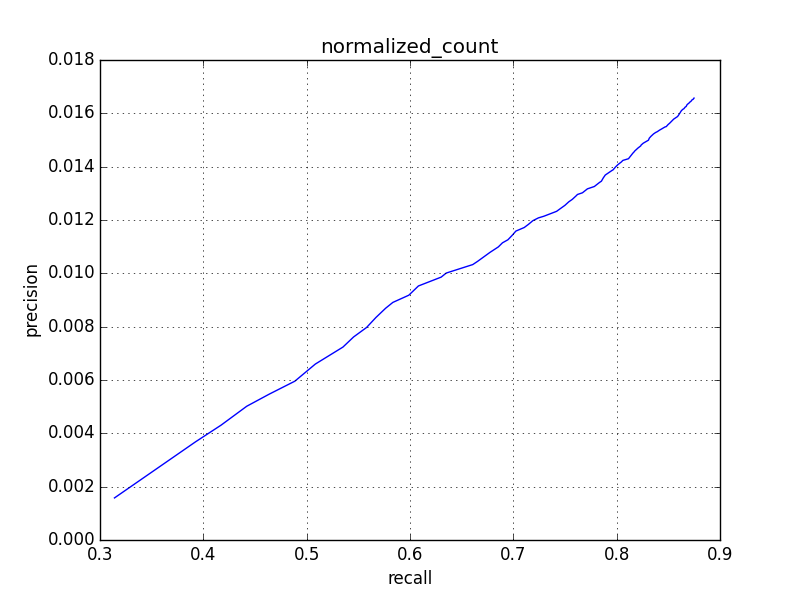
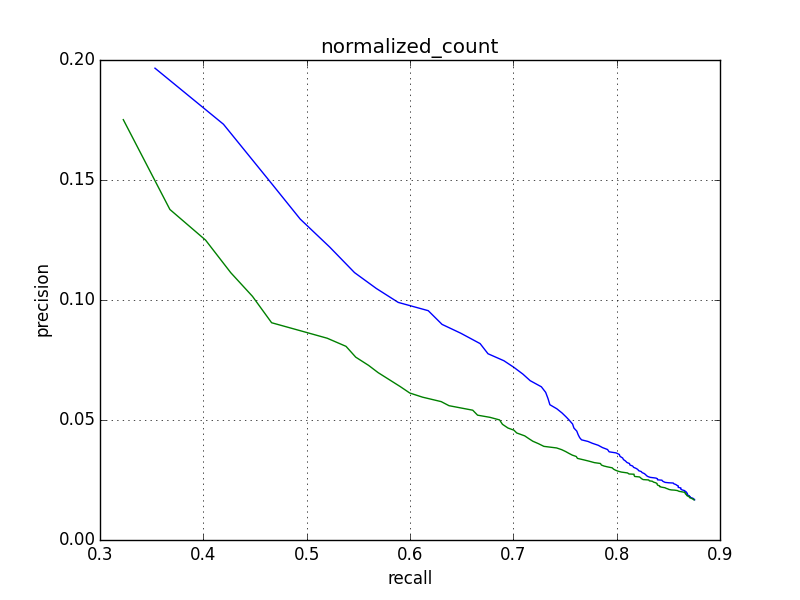
Putting stuff into a function. OMG.

diff --git a/stats.py b/stats.py
@@ -1,7 +1,7 @@
 from index.index import Index
 from index.index_config import IndexConfig
 from index.vectorial_query import VectorialQueryTfIdf, VectorialQueryNormCount
-from math import floor
+from math import ceil
 from pylab import *
 
 def read_queries(file_path):
@@ -33,6 +33,48 @@ def read_expected_results(file_path):
                 expected[query_id] = [expected_doc]
     return expected
 
+def compute_recall_and_precision(queries, expected, index, query_type, chart_title, output_path, step=1):
+    average_prec_list = []
+    average_recall_list = []
+
+    for percentage in range(1, 100, 1):
+        average_prec = 0
+        average_recall = 0
+        for (query_id, query_text) in queries.items():
+            pertinent = expected[query_id] if query_id in expected else []
+            pertinent_len = len(pertinent)
+
+            query_tfidf = query_type(query_text)
+            query_results = query_tfidf.execute(index)
+            tfidf_len = len(query_results)
+
+            top = math.ceil(tfidf_len*percentage/100)
+            query_results = query_results[0:top]
+            tfidf_len = top
+            
+            tfidf_found = len([k for k in pertinent if k in [x for (x, y) in query_results]])
+            tfidf_recall = tfidf_found / pertinent_len if pertinent_len > 0 else 1.0
+            tfidf_prec = tfidf_found / tfidf_len
+            
+            average_prec = average_prec + tfidf_prec
+            average_recall = average_recall + tfidf_recall
+        average_prec = average_prec / len(queries)
+        average_recall = average_recall / len(queries)
+        average_prec_list.append(average_prec)
+        average_recall_list.append(average_recall)
+
+    print(average_prec_list)
+    print(average_recall_list)
+
+    plot(average_recall_list, average_prec_list)
+
+    xlabel('recall')
+    ylabel('precision')
+    title(chart_title)
+    grid(True)
+    savefig("images/" + output_path)
+    #show()
+
 
 print('Indexing...')
 config = IndexConfig('data/common_words')
@@ -40,50 +82,12 @@ index = Index('data/cacm.all', config)
 
 queries = read_queries('data/query.text')
 expected = read_expected_results('data/qrels.text')
-results_tfidf = {}
-results_norm_count = {}
 
 print('Running queries...')
+compute_recall_and_precision(queries, expected, index, VectorialQueryTfIdf, 'tfidf', 'tfidf.png')
+compute_recall_and_precision(queries, expected, index, VectorialQueryNormCount, 'normalized_count', 'normalized_count.png')
 
-average_prec_list = []
-average_recall_list = []
 
-for percentage in range(1, 100, 1):
-    average_prec = 0
-    average_recall = 0
-    for (query_id, query_text) in queries.items():
-        pertinent = expected[query_id] if query_id in expected else []
-        pertinent_len = len(pertinent)
-
-        query_tfidf = VectorialQueryNormCount(query_text)
-        results_tfidf[query_id] = query_tfidf.execute(index)
-        tfidf_len = len(results_tfidf[query_id])
-
-        top = math.floor(tfidf_len*percentage/100)
-        results_tfidf[query_id] = results_tfidf[query_id][0:top]
-        
-        tfidf_found = len([k for k in pertinent if k in [x for (x, y) in results_tfidf[query_id]]])
-        tfidf_recall = tfidf_found / pertinent_len if pertinent_len > 0 else 1.0
-        tfidf_prec = tfidf_found / tfidf_len
-        
-        average_prec = average_prec + tfidf_prec
-        average_recall = average_recall + tfidf_recall
-    average_prec = average_prec / len(queries)
-    average_recall = average_recall / len(queries)
-    average_prec_list.append(average_prec)
-    average_recall_list.append(average_recall)
-
-print(average_prec_list)
-print(average_recall_list)
-
-plot(average_recall_list, average_prec_list)
-
-xlabel('recall')
-ylabel('precision')
-title('normalized_count')
-grid(True)
-savefig("images/normalized_count.png")
-show()
 
 
 
